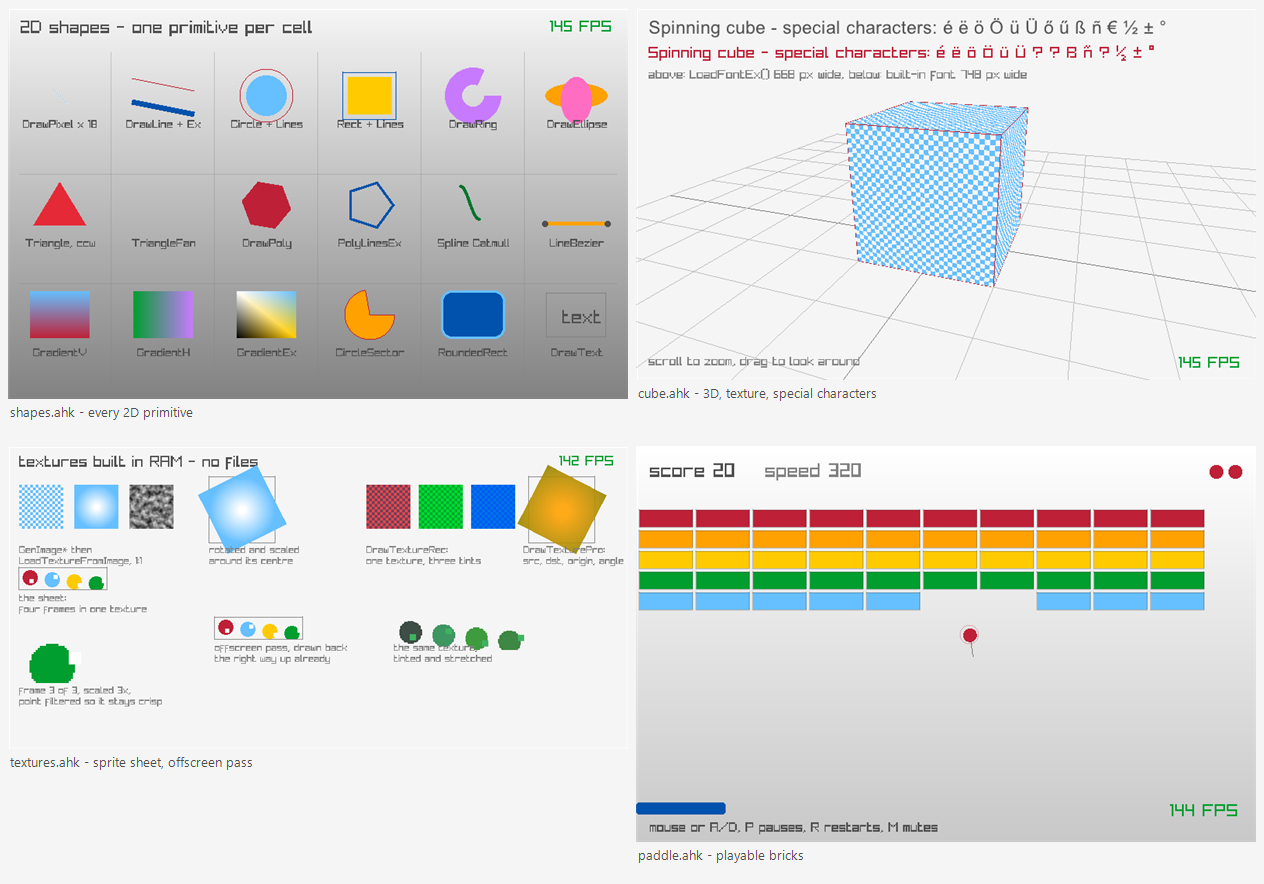
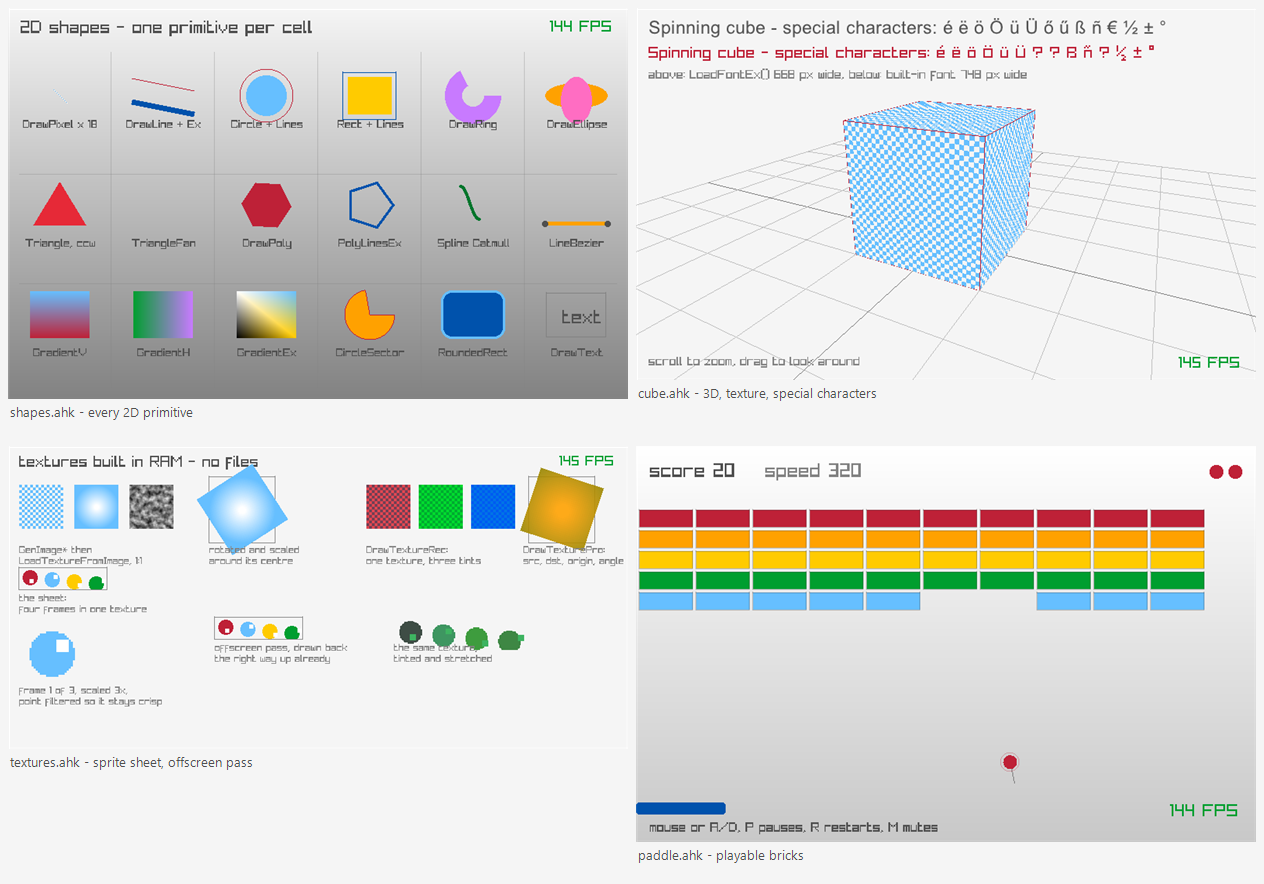
Make the verification chain actually verify, and the shim build reproducible
The chain reported "all steps passed" while seven demo steps were doing nothing at all.
Two separate causes, both mine:

  - AutoHotkey64.exe is a GUI-subsystem image. PowerShell's call operator does not wait
    for one and does not take $LASTEXITCODE from it, so each demo step reported the exit
    code of whatever python step ran before it. Run-Ahk now starts the process, waits, and
    returns its real code.
  - A switch before the script name is read as the script name: /auto:2500 first in the
    argument list made the interpreter look for a script called C:\auto:2500 and die with
    exit 2. Built-in switches now go before the script, the demo's own /auto and /shot
    after it, which is also what the README documents.

An exit code still says nothing about pixels, so every shot is deleted before its run and
then sampled for distinct colours; the run ends by requiring seven fresh screenshots. Last
run: 7/7 refreshed, 62 colours in the shapes grid, 69 smoke checks, 0 failures.

/Brepro on the link line keeps the PE timestamp out of the shim, so building the same
shim.c yields the same bytes: verified identical SHA256 across two builds. The DLL is
committed, so a build that rewrote it hourly would leave the tree permanently dirty.

tools/fix_mojibake.py now carries its markers as ASCII escapes - a checker whose own
source contains the bytes it hunts for reports itself broken - and precheck no longer
flags files for carrying a BOM they need.

diff --git a/tools/fix_mojibake.py b/tools/fix_mojibake.py
@@ -1,14 +1,25 @@
 """Repair text that was read as ANSI and written back as UTF-8, which turns every
-non-ASCII character into mojibake ("--" becomes "â€""). PowerShell 5.1's
-`Get-Content -Raw` without -Encoding does exactly this.
+non-ASCII character into mojibake: an em dash becomes a three-character mess, aHungarian
+o-double-acute becomes an A-ring. Windows PowerShell 5.1's `Get-Content -Raw` without
+-Encoding does exactly this, and `Set-Content -Encoding UTF8` then saves the damage.
 
-  python tools/fix_mojibake.py [file ...]     (default: the markdown and text files)
+  python tools/fix_mojibake.py [file ...]
+    without arguments: every text file git tracks
+
+This file stays pure ASCII on purpose: a checker whose own source contains the bytes it
+hunts for reports itself as broken. Run tools/precheck.py to see whether anything is.
 """
 import io
+import os
+import subprocess
 import sys
 
-# Escapes, so this file stays ASCII and is not itself a match.
-MARKS = ["\u00e2\u20ac", "\u00c3\u00a2", "\u00c3\u00a9", "\u0178", "\u00c2"]
+# Escapes, never literals. Each is what a cp1252 or cp1250 reading of UTF-8 bytes for a
+# common non-ASCII character looks like: em dash, curly quote, accent, a-ring, degree.
+MARKS = ["\u00e2\u20ac", "\u00e2\u201a", "\u00c3\u00a2", "\u00c3\u00a9", "\u00c3\u00a8", "\u00c3\u00b6", "\u00c3\u00bc", "\u0178", "\u00c2"]
+
+# The codepage that did the damage depends on the machine's ANSI locale.
+CANDIDATES = ["cp1252", "cp1250", "latin-1"]
 
 
 def looks_broken(text):
@@ -16,26 +27,43 @@ def looks_broken(text):
 
 
 def repair(text):
-    # the bytes were decoded as cp1252, so encoding them back recovers the UTF-8
-    return text.encode("cp1252", errors="strict").decode("utf-8", errors="strict")
+    for codepage in CANDIDATES:
+        try:
+            fixed = text.encode(codepage).decode("utf-8")
+        except (UnicodeEncodeError, UnicodeDecodeError):
+            continue
+        # A real repair removes the markers; a lucky round trip does not.
+        if fixed != text and not looks_broken(fixed):
+            return fixed, codepage
+    return None, None
+
+
+def tracked_files():
+    out = subprocess.run(["git", "ls-files"], capture_output=True, text=True).stdout.split()
+    return [p.replace("\\", "/") for p in out]
 
 
 def main():
-    paths = sys.argv[1:] or ["README.md", ".gitignore", ".gitattributes", "tools/skipped.txt"]
+    paths = sys.argv[1:] or tracked_files()
+    changed = 0
     for path in paths:
-        raw = open(path, "rb").read()
-        bom = raw.startswith(b"\xef\xbb\xbf")
-        text = raw.decode("utf-8-sig")
-        if not looks_broken(text):
-            print("%s: clean" % path)
+        if not os.path.exists(path) or path.endswith((".dll", ".png", ".lib", ".obj")):
             continue
-        try:
-            fixed = repair(text)
-        except (UnicodeEncodeError, UnicodeDecodeError) as exc:
-            print("%s: looks broken but not repairable automatically (%s)" % (path, exc))
+        with open(path, "rb") as handle:
+            raw = handle.read()
+        bom = raw.startswith(b"\xef\xbb\xbf")
+        text = raw.decode("utf-8-sig", errors="replace")
+        if not looks_broken(text):
+            continue
+        fixed, codepage = repair(text)
+        if fixed is None:
+            print("%s: has mojibake markers but no codepage round-trips cleanly" % path)
             continue
         io.open(path, "w", encoding="utf-8-sig" if bom else "utf-8", newline="").write(fixed)
-        print("%s: repaired (%d -> %d chars)" % (path, len(text), len(fixed)))
+        print("%s: repaired via %s (%d -> %d chars)" % (path, codepage, len(text), len(fixed)))
+        changed += 1
+    if not changed:
+        print("no file needed repair")
 
 
 if __name__ == "__main__":

diff --git a/README.md b/README.md
@@ -217,7 +217,17 @@ powershell -ExecutionPolicy Bypass -File tools\check_all.ps1    # everything, en
 Building the shim needs a C compiler and the raylib **DLL**, never `raylib.lib` — linking the
 static library would embed a second copy of raylib with its own window and GL context.
 
-## Gotchas found the hard way
+## Gotchas
+
+- The interpreter's own switches go **before** the script, the script's own arguments
+  **after** it: `AutoHotkey64.exe /ErrorStdOut examples\demo.ahk /auto:2500 /shot:demo`.
+  A `/switch` that appears before the script name is taken for the script path, and the run
+  dies with `C:\auto:2500 ... Script file not found` while an unwary shell reports success.
+- `AutoHotkey64.exe` is a GUI-subsystem program, so PowerShell's `&` operator neither waits
+  for it nor sets `$LASTEXITCODE` from it; a step that inherited the previous step's exit
+  code once certified seven demos that never started. `tools\run_ahk.ps1` and `Run-Ahk` in
+  `tools\check_all.ps1` wait for the process and report its real code.
+ found the hard way
 
 - **`Array.Delete(pos)` does not shorten an array.** It marks the slot and leaves `Length`
   alone, so a `while arr.Length > n` trim loop after `Delete(1)` spins forever and the window
